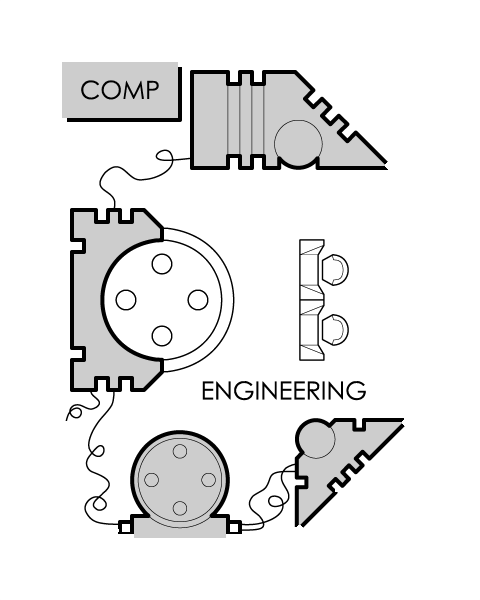
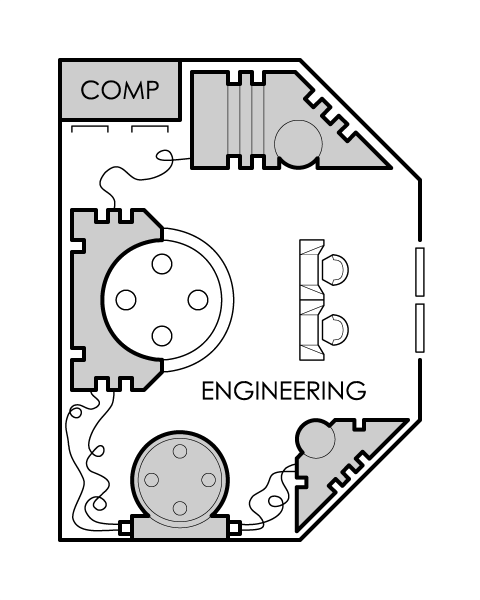
Revert "Floor plans: engineering sections without their own outer walls"
This reverts commit d358a02: the engineering sections keep their walls.

diff --git a/scripts/floorplan/symbols.py b/scripts/floorplan/symbols.py
@@ -21,7 +21,6 @@ import sys
 sys.path.insert(0, os.path.dirname(__file__))
 import pngtools  # noqa: E402
 import sheet  # noqa: E402
-import unwall  # noqa: E402
 
 ROOT = "D:/SandPit/ShipParts/"
 SYM = "CustomTiles/Symbols/"
@@ -154,10 +153,6 @@ for ident, name, category, rel, *extra in PICKS:
     # colour shows through and nothing draws as a black block when the screen
     # inverts it.
     _, _, px = pngtools.read(src)
-    # Engineering sections lose their own outer walls: the plan draws the
-    # room's walls itself, round whatever shape the room is painted.
-    if category == "engineering":
-        px, _ = unwall.unwall(px, (max(1, math.ceil(wide / 5)), max(1, math.ceil(high / 5))))
     pngtools.write(DST + ident + ".png", [[(r, g, b, 0) if min(r, g, b) >= sheet.WHITE else (r, g, b, a) for r, g, b, a in row] for row in px])
     catalogue.append({
         "id": ident,

diff --git a/FloorPlanSpec.md b/FloorPlanSpec.md
@@ -131,7 +131,7 @@ Built through FP6 on 2026-10-11. Section 11 lists what was settled by default an
 
 7.6 Doors and iris valves in walls are drawn as lines, because they sit on edges and the library's door images are whole assemblies. A door is a gap in the wall with its leaf across it. An iris valve in a wall is the bowtie the geomorph tiles draw for one: two triangles pointing at the middle of the gap. An iris valve between decks is the library's own: Starship Symbols iris valve 005, solid, for one in the floor, and 013, dashed, for one in the ceiling, dashed being the symbols' way of showing something overhead. Lifts and stairs use the library's lift and stairs.
 
-7.7 **The library** is one list, in sections: access; turrets, launchers and barbettes; engineering; standard rooms; empty rooms; staterooms and beds; freshers; common areas; medical; furniture; consoles; cargo; craft and vehicles; and an arboretum. It draws on three sources. Robert Pearce's Starship Symbols give the fitted rooms, engineering sections of 4 to 63 tons, lounges and galleys, and furniture. His Adventure Class Geomorphs give the turrets and barbettes DV-001 to DV-009, a luxury stateroom and a luxury lounge. His Symbols & Abbreviations sheet gives 69 pieces cut out one by one: beds and bunks, freshers and sinks, medical beds and an autodoc, lockers, tables and gaming tables, machinery, batteries and computers, elevators, stairwells and hatches, launch tubes and a manned turret, cargo, and trees, boulders and a fountain. The standard rooms are his complete rooms for the book's fittings at its sizes where it gives one, a 6-ton workshop and a 4-ton medical bay, laboratory, briefing room and brig, with an armoury, classroom, computer room, office and storage; the empty rooms are his plain walls and door in ten sizes from 5 by 5 feet to 20 by 40. An air/raft, cut out of one of his air/raft bays, is the craft alone at its 4 tons. 155 pieces in all, about 760 KB. A piece the size of its drawing would misstate is given its footprint, drawn to fit it, and set against an edge where it stands against a wall: the lockers are a square each, the small one against the top of its square, and pieces that stand against a wall are drawn against that edge of their footprint, turning with it: toilets, sinks and the galley counter with their backs to the top, beds, desks and consoles with their heads or backs to the left, and the corner booth and bunks into the top left corner. Pieces from the sheet drawn a little larger than their squares, the cargo crates, freshers, showers, consoles, elevators, stairs and the like, are shrunk to sit just inside them, so their heavy outlines stay off the walls. The corner booth and the curved couch have the square frame they were drawn in taken off, leaving the curves, with the couch's seats given ends of their own where they met it. The engineering sections have their own outer walls taken off, since the plan draws the room's walls round whatever shape it is painted; a few stretches set back from the edge against machinery, mostly corners at forty-five degrees, are left. `src/floorplan/symbols.json` lists each with where it came from; `scripts/floorplan/symbols.py` copies them in and `scripts/floorplan/sheet.py` cuts the sheet. Every piece has its white made clear, so the floor's colour shows through it and nothing draws as a solid block. They are drawn as they are on paper and inverted on screen, with the hue turned back so the arboretum stays green and the fountain blue.
+7.7 **The library** is one list, in sections: access; turrets, launchers and barbettes; engineering; standard rooms; empty rooms; staterooms and beds; freshers; common areas; medical; furniture; consoles; cargo; craft and vehicles; and an arboretum. It draws on three sources. Robert Pearce's Starship Symbols give the fitted rooms, engineering sections of 4 to 63 tons, lounges and galleys, and furniture. His Adventure Class Geomorphs give the turrets and barbettes DV-001 to DV-009, a luxury stateroom and a luxury lounge. His Symbols & Abbreviations sheet gives 69 pieces cut out one by one: beds and bunks, freshers and sinks, medical beds and an autodoc, lockers, tables and gaming tables, machinery, batteries and computers, elevators, stairwells and hatches, launch tubes and a manned turret, cargo, and trees, boulders and a fountain. The standard rooms are his complete rooms for the book's fittings at its sizes where it gives one, a 6-ton workshop and a 4-ton medical bay, laboratory, briefing room and brig, with an armoury, classroom, computer room, office and storage; the empty rooms are his plain walls and door in ten sizes from 5 by 5 feet to 20 by 40. An air/raft, cut out of one of his air/raft bays, is the craft alone at its 4 tons. 155 pieces in all, about 760 KB. A piece the size of its drawing would misstate is given its footprint, drawn to fit it, and set against an edge where it stands against a wall: the lockers are a square each, the small one against the top of its square, and pieces that stand against a wall are drawn against that edge of their footprint, turning with it: toilets, sinks and the galley counter with their backs to the top, beds, desks and consoles with their heads or backs to the left, and the corner booth and bunks into the top left corner. Pieces from the sheet drawn a little larger than their squares, the cargo crates, freshers, showers, consoles, elevators, stairs and the like, are shrunk to sit just inside them, so their heavy outlines stay off the walls. The corner booth and the curved couch have the square frame they were drawn in taken off, leaving the curves, with the couch's seats given ends of their own where they met it. `src/floorplan/symbols.json` lists each with where it came from; `scripts/floorplan/symbols.py` copies them in and `scripts/floorplan/sheet.py` cuts the sheet. Every piece has its white made clear, so the floor's colour shows through it and nothing draws as a solid block. They are drawn as they are on paper and inverted on screen, with the hue turned back so the arboretum stays green and the fountain blue.
 
 7.8 **Placing always places.** A piece put down over another stands on it, as a chair stands on a fitted room's floor; only a lift, hatch or stairs replaces another on the same square. Taking a piece away is the Move tool and Delete.
 

diff --git a/scripts/floorplan/README.md b/scripts/floorplan/README.md
@@ -12,9 +12,6 @@ top of each script; change them to suit, then run `symbols.py` with Python 3.
   box is in the coordinates of the sheet shown 1200 pixels wide, and is
   tightened to the drawing. `python sheet.py contact.png` draws every cut on
   one page to check by eye.
-- `unwall.py` takes the outer walls off the engineering sections as they are
-  copied in, since the plan draws its own. `python unwall.py in.png out.png W H`
-  tries it on one drawing of W by H squares.
 - `pngtools.py` reads and writes PNG with nothing but the standard library.
 
 The art is Robert Pearce's Starship Symbols, Adventure Class Geomorphs and
